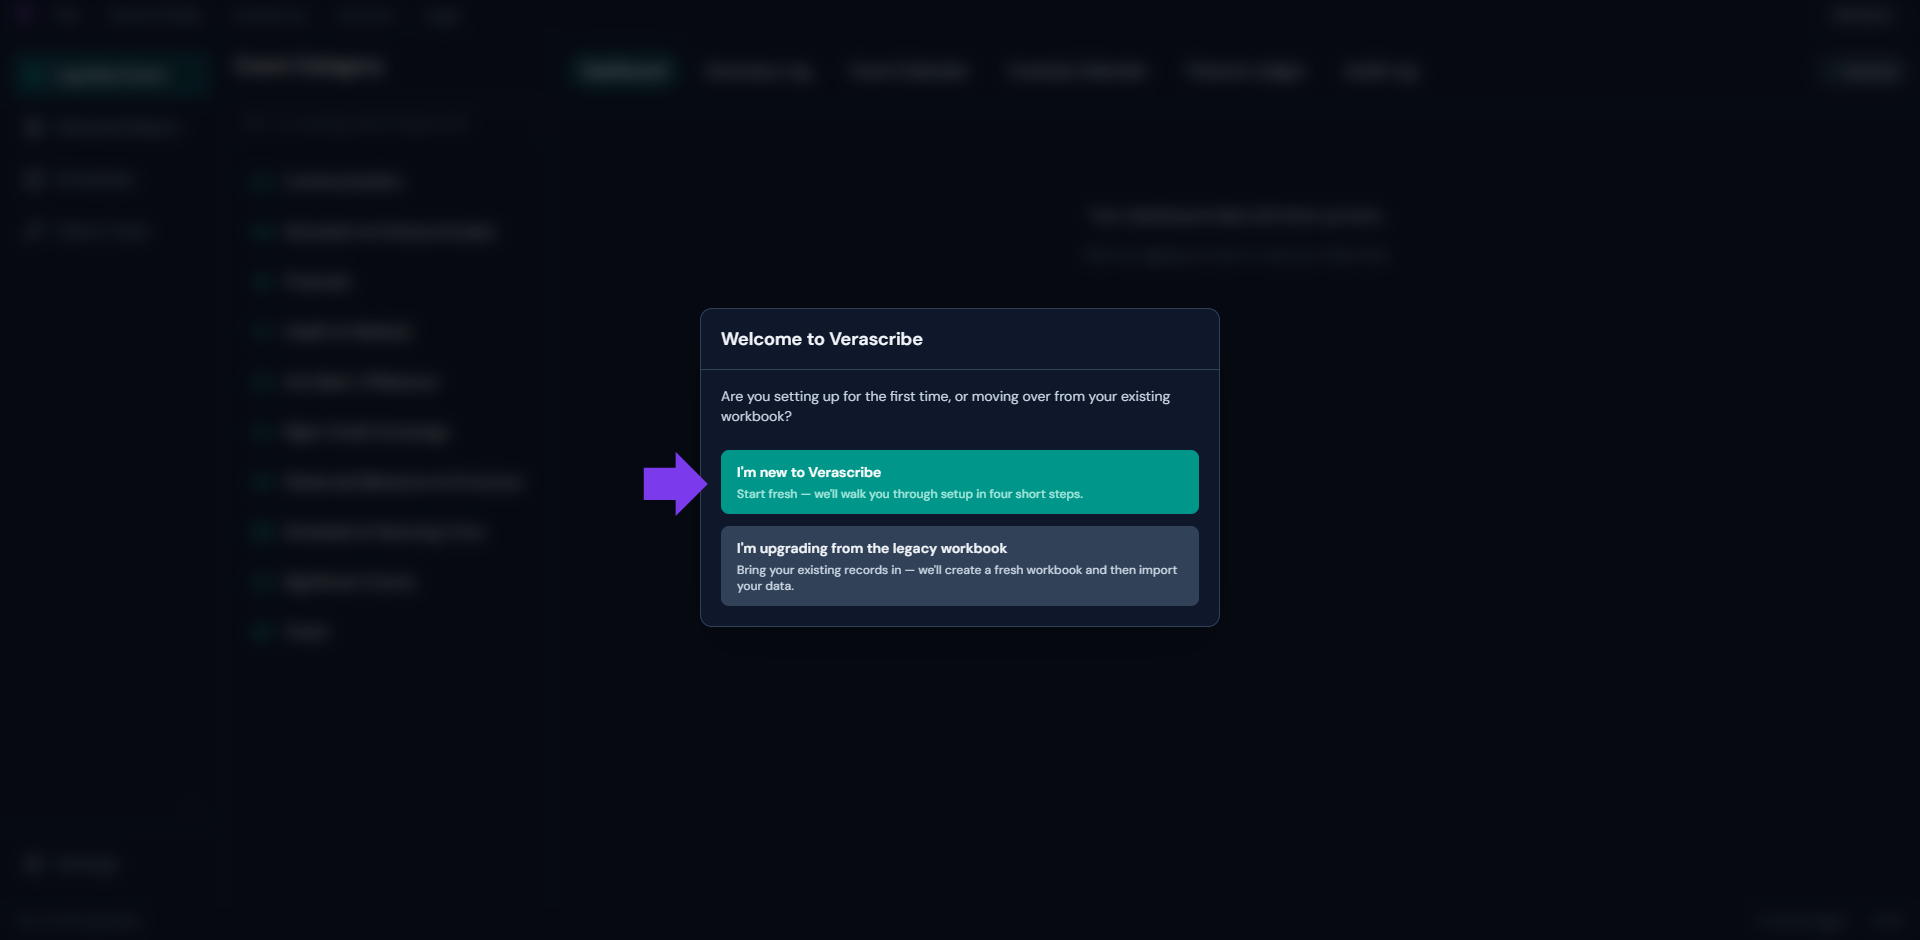
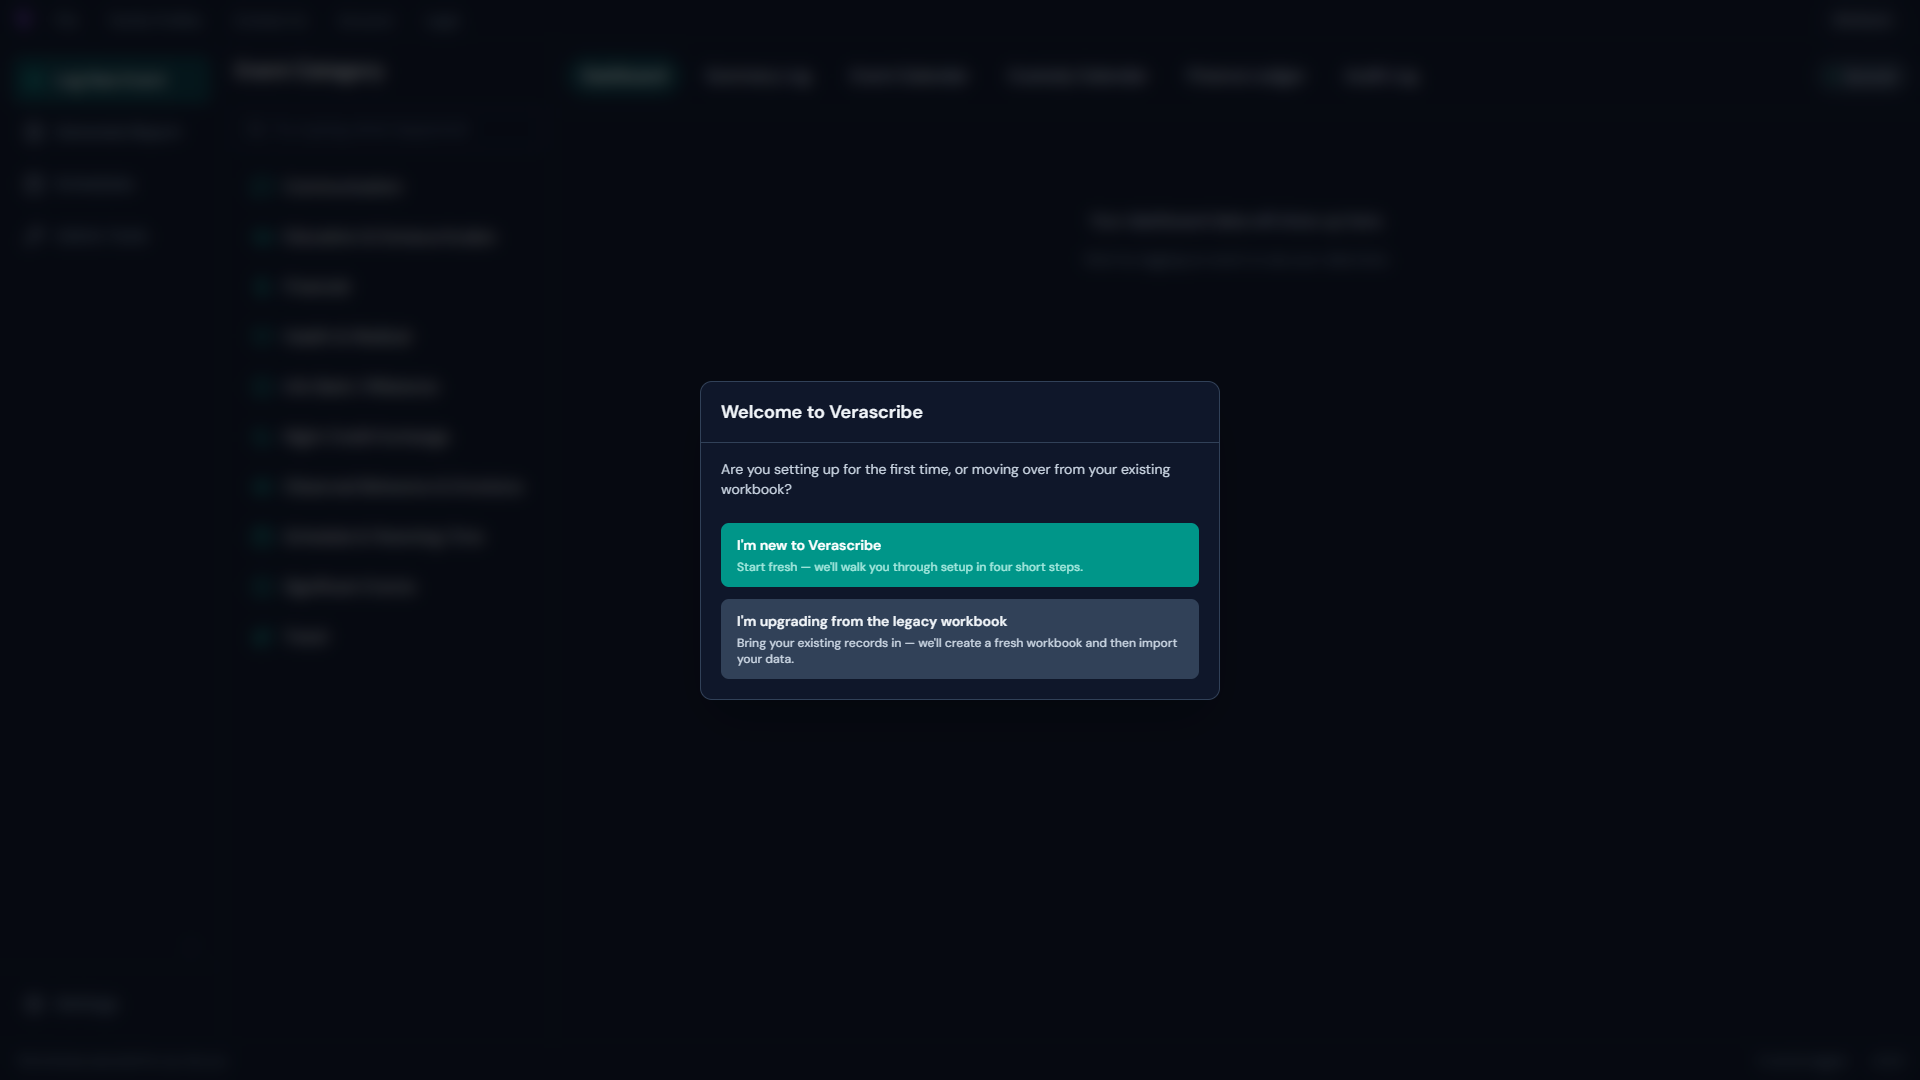
feat: trial page overhaul — vertical steps, real screenshots, card styling, app CTA
- Replace 4-col horizontal step grid with vertical layout (number chip + full-width image)
- Wire all 4 "What to expect" steps to new-user-guide screenshots
- Remove placeholder asset-todo divs; add purple glow to step images matching hero
- Replace hero UI spotlight placeholder with dashboard.png
- Update card containers (full app, permissions, what happens next) to bg-white/5 border-white/10
- Wire modal "Continue to Google" button directly to https://app.myverascribe.com (new tab)
- Update new-user-guide images

Changed region(s): [[0.3125, 0.3085, 0.6562, 0.6787]]

diff --git a/trial/index.html b/trial/index.html
@@ -65,14 +65,7 @@ variant: b
 
     <!-- Hero UI Spotlight asset (below CTA per Axis spec — scroll reward, not above-fold) -->
     <div class="mt-20 max-w-4xl mx-auto">
-      <!-- ASSET TODO: /assets/images/trial/hero.png — 1280x800 (16:10), UI Spotlight, dark app UI in laptop frame, radial Neon Purple glow -->
-      <div class="asset-todo aspect-[16/10] rounded-2xl flex items-center justify-center" style="box-shadow: 0 0 120px -10px rgba(168,85,247,0.4);">
-        <div class="text-center text-brand-purple/60">
-          <i data-lucide="image" class="w-16 h-16 mx-auto mb-3"></i>
-          <p class="text-sm font-semibold uppercase tracking-wider">Hero UI Spotlight</p>
-          <p class="text-xs mt-1 opacity-60">/assets/images/trial/hero.png &middot; 1280&times;800 &middot; UI Spotlight</p>
-        </div>
-      </div>
+      <img src="{{ '/assets/images/index/dashboard.png' | relative_url }}" alt="Verascribe Guardian dashboard" class="w-full rounded-2xl shadow-2xl" style="box-shadow: 0 0 120px -10px rgba(168,85,247,0.4);">
     </div>
   </div>
 </section>
@@ -98,7 +91,7 @@ variant: b
 
     <div class="grid md:grid-cols-2 gap-6 reveal">
       <!-- Card 1: Custody logging -->
-      <div class="glass-card rounded-2xl p-7 border border-slate-700/40">
+      <div class="glass-card rounded-2xl p-7 bg-white/5 border border-white/10">
         <i data-lucide="clipboard-list" class="w-7 h-7 text-brand-teal mb-4"></i>
         <h3 class="text-xl font-bold text-off-white mb-3">Custody logging</h3>
         <p class="text-lg text-gray-400 leading-[1.6]">
@@ -107,7 +100,7 @@ variant: b
       </div>
 
       <!-- Card 2: Custody calendar -->
-      <div class="glass-card rounded-2xl p-7 border border-slate-700/40">
+      <div class="glass-card rounded-2xl p-7 bg-white/5 border border-white/10">
         <i data-lucide="calendar" class="w-7 h-7 text-brand-teal mb-4"></i>
         <h3 class="text-xl font-bold text-off-white mb-3">Custody calendar</h3>
         <p class="text-lg text-gray-400 leading-[1.6]">
@@ -116,7 +109,7 @@ variant: b
       </div>
 
       <!-- Card 3: Finance ledger -->
-      <div class="glass-card rounded-2xl p-7 border border-slate-700/40">
+      <div class="glass-card rounded-2xl p-7 bg-white/5 border border-white/10">
         <i data-lucide="receipt" class="w-7 h-7 text-brand-teal mb-4"></i>
         <h3 class="text-xl font-bold text-off-white mb-3">Finance ledger</h3>
         <p class="text-lg text-gray-400 leading-[1.6]">
@@ -125,7 +118,7 @@ variant: b
       </div>
 
       <!-- Card 4: Evidence locker -->
-      <div class="glass-card rounded-2xl p-7 border border-slate-700/40">
+      <div class="glass-card rounded-2xl p-7 bg-white/5 border border-white/10">
         <i data-lucide="folder-lock" class="w-7 h-7 text-brand-teal mb-4"></i>
         <h3 class="text-xl font-bold text-off-white mb-3">Evidence locker</h3>
         <p class="text-lg text-gray-400 leading-[1.6]">
@@ -134,7 +127,7 @@ variant: b
       </div>
 
       <!-- Card 5: One-click PDF reports -->
-      <div class="glass-card rounded-2xl p-7 border border-slate-700/40">
+      <div class="glass-card rounded-2xl p-7 bg-white/5 border border-white/10">
         <i data-lucide="file-text" class="w-7 h-7 text-brand-teal mb-4"></i>
         <h3 class="text-xl font-bold text-off-white mb-3">One-click PDF reports</h3>
         <p class="text-lg text-gray-400 leading-[1.6]">
@@ -143,7 +136,7 @@ variant: b
       </div>
 
       <!-- Card 6: Full audit trail -->
-      <div class="glass-card rounded-2xl p-7 border border-slate-700/40">
+      <div class="glass-card rounded-2xl p-7 bg-white/5 border border-white/10">
         <i data-lucide="history" class="w-7 h-7 text-brand-teal mb-4"></i>
         <h3 class="text-xl font-bold text-off-white mb-3">Full audit trail</h3>
         <p class="text-lg text-gray-400 leading-[1.6]">
@@ -177,85 +170,65 @@ variant: b
       </p>
     </div>
 
-    <!-- 4-step grid with desktop connector line -->
-    <div class="relative reveal">
-      <!-- Connector line: desktop only, behind the chips -->
-      <div class="hidden lg:block absolute top-12 left-[12%] right-[12%] h-px bg-slate-700/60 -z-0"></div>
+    <!-- 4-step vertical list -->
+    <div class="space-y-16 reveal">
 
-      <div class="grid grid-cols-1 lg:grid-cols-4 gap-10 lg:gap-6 relative z-10">
-
-        <!-- Step 1 -->
-        <div class="text-center">
-          <div class="w-10 h-10 rounded-full bg-brand-purple/15 text-brand-purple font-bold flex items-center justify-center mx-auto mb-4 border-2 border-charcoal">
-            1
-          </div>
-          <!-- ASSET TODO: /assets/images/trial/step-1.png — 1280x960 (4:3), workbook-picker UI screenshot -->
-          <div class="asset-todo aspect-[4/3] rounded-xl mb-5 flex items-center justify-center">
-            <div class="text-center text-brand-purple/50">
-              <i data-lucide="image" class="w-10 h-10 mx-auto mb-2"></i>
-              <p class="text-xs opacity-70">step-1.png</p>
-            </div>
-          </div>
-          <h3 class="text-lg font-bold text-off-white mb-2">Tell us where you are.</h3>
-          <p class="text-base text-gray-400 leading-[1.5]">
+      <!-- Step 1 -->
+      <div class="flex flex-col md:flex-row items-start gap-8">
+        <div class="flex-shrink-0 w-10 h-10 rounded-full bg-brand-purple/15 text-brand-purple font-bold flex items-center justify-center border-2 border-charcoal mt-1">
+          1
+        </div>
+        <div class="flex-1">
+          <h3 class="text-xl font-bold text-off-white mb-3">Tell us where you are.</h3>
+          <p class="text-base text-gray-400 leading-[1.5] mb-6">
             New to Verascribe, or returning to an existing workbook? One tap.
           </p>
-        </div>
-
-        <!-- Step 2 -->
-        <div class="text-center">
-          <div class="w-10 h-10 rounded-full bg-brand-purple/15 text-brand-purple font-bold flex items-center justify-center mx-auto mb-4 border-2 border-charcoal">
-            2
-          </div>
-          <!-- ASSET TODO: /assets/images/trial/step-2.png — 1280x960 (4:3), in-app "Create new workbook" screen -->
-          <div class="asset-todo aspect-[4/3] rounded-xl mb-5 flex items-center justify-center">
-            <div class="text-center text-brand-purple/50">
-              <i data-lucide="image" class="w-10 h-10 mx-auto mb-2"></i>
-              <p class="text-xs opacity-70">step-2.png</p>
-            </div>
-          </div>
-          <h3 class="text-lg font-bold text-off-white mb-2">Create your workbook.</h3>
-          <p class="text-base text-gray-400 leading-[1.5]">
-            Click "Create workbook" in the app. A new Google Sheets workbook is created in your Drive. That workbook is yours &mdash; it stays in your account whether you stay with us or not.
-          </p>
-        </div>
-
-        <!-- Step 3 -->
-        <div class="text-center">
-          <div class="w-10 h-10 rounded-full bg-brand-purple/15 text-brand-purple font-bold flex items-center justify-center mx-auto mb-4 border-2 border-charcoal">
-            3
-          </div>
-          <!-- ASSET TODO: /assets/images/trial/step-3.png — 1280x960 (4:3), family profile entry (DO NOT include birthday — input doesn't exist yet) -->
-          <div class="asset-todo aspect-[4/3] rounded-xl mb-5 flex items-center justify-center">
-            <div class="text-center text-brand-purple/50">
-              <i data-lucide="image" class="w-10 h-10 mx-auto mb-2"></i>
-              <p class="text-xs opacity-70">step-3.png</p>
-            </div>
-          </div>
-          <h3 class="text-lg font-bold text-off-white mb-2">Enter your family profile.</h3>
-          <p class="text-base text-gray-400 leading-[1.5]">
-            Names for your child or children. Names for the parents. The relationships between them. Two minutes.
-          </p>
-        </div>
-
-        <!-- Step 4 -->
-        <div class="text-center">
-          <div class="w-10 h-10 rounded-full bg-brand-purple/15 text-brand-purple font-bold flex items-center justify-center mx-auto mb-4 border-2 border-charcoal">
-            4
-          </div>
-          <!-- ASSET TODO: /assets/images/trial/step-4.png — 1280x960 (4:3), schedule generator screenshot -->
-          <div class="asset-todo aspect-[4/3] rounded-xl mb-5 flex items-center justify-center">
-            <div class="text-center text-brand-purple/50">
-              <i data-lucide="image" class="w-10 h-10 mx-auto mb-2"></i>
-              <p class="text-xs opacity-70">step-4.png</p>
-            </div>
-          </div>
-          <h3 class="text-lg font-bold text-off-white mb-2">Generate your custody schedule.</h3>
-          <p class="text-base text-gray-400 leading-[1.5]">
-            Pick a template (2-2-3, week-on-week-off, every-other-weekend, custom) and the calendar fills in. Adjust as needed.
-          </p>
+          <img src="{{ '/assets/images/guides/new-user-guide/select-new-user.png' | relative_url }}" alt="Select new user" class="w-full rounded-xl" style="box-shadow: 0 0 120px -10px rgba(168,85,247,0.4);">
         </div>
       </div>
+
+      <!-- Step 2 -->
+      <div class="flex flex-col md:flex-row items-start gap-8">
+        <div class="flex-shrink-0 w-10 h-10 rounded-full bg-brand-purple/15 text-brand-purple font-bold flex items-center justify-center border-2 border-charcoal mt-1">
+          2
+        </div>
+        <div class="flex-1">
+          <h3 class="text-xl font-bold text-off-white mb-3">Create your workbook.</h3>
+          <p class="text-base text-gray-400 leading-[1.5] mb-6">
+            Click "Create workbook" in the app. A new Google Sheets workbook is created in your Drive. That workbook is yours &mdash; it stays in your account whether you stay with us or not.
+          </p>
+          <img src="{{ '/assets/images/guides/new-user-guide/create-new-workbook.png' | relative_url }}" alt="Create new workbook" class="w-full rounded-xl" style="box-shadow: 0 0 120px -10px rgba(168,85,247,0.4);">
+        </div>
+      </div>
+
+      <!-- Step 3 -->
+      <div class="flex flex-col md:flex-row items-start gap-8">
+        <div class="flex-shrink-0 w-10 h-10 rounded-full bg-brand-purple/15 text-brand-purple font-bold flex items-center justify-center border-2 border-charcoal mt-1">
+          3
+        </div>
+        <div class="flex-1">
+          <h3 class="text-xl font-bold text-off-white mb-3">Enter your family profile.</h3>
+          <p class="text-base text-gray-400 leading-[1.5] mb-6">
+            Names for your child or children. Names for the parents. The relationships between them. Two minutes.
+          </p>
+          <img src="{{ '/assets/images/guides/new-user-guide/family-profile.png' | relative_url }}" alt="Enter family profile" class="w-full rounded-xl" style="box-shadow: 0 0 120px -10px rgba(168,85,247,0.4);">
+        </div>
+      </div>
+
+      <!-- Step 4 -->
+      <div class="flex flex-col md:flex-row items-start gap-8">
+        <div class="flex-shrink-0 w-10 h-10 rounded-full bg-brand-purple/15 text-brand-purple font-bold flex items-center justify-center border-2 border-charcoal mt-1">
+          4
+        </div>
+        <div class="flex-1">
+          <h3 class="text-xl font-bold text-off-white mb-3">Generate your custody schedule.</h3>
+          <p class="text-base text-gray-400 leading-[1.5] mb-6">
+            Pick a template (2-2-3, week-on-week-off, every-other-weekend, custom) and the calendar fills in. Adjust as needed.
+          </p>
+          <img src="{{ '/assets/images/guides/new-user-guide/generate-schedule.png' | relative_url }}" alt="Generate custody schedule" class="w-full rounded-xl" style="box-shadow: 0 0 120px -10px rgba(168,85,247,0.4);">
+        </div>
+      </div>
+
     </div>
 
     <p class="text-center text-lg text-gray-300 mt-16 reveal">
@@ -287,7 +260,7 @@ variant: b
     <div class="grid md:grid-cols-3 gap-6 reveal mb-12">
 
       <!-- Permission 1: drive.file -->
-      <div class="glass-card rounded-2xl p-7 border border-slate-700/40">
+      <div class="glass-card rounded-2xl p-7 bg-white/5 border border-white/10">
         <i data-lucide="folder-open" class="w-8 h-8 text-brand-teal mb-4"></i>
         <h3 class="text-lg font-bold text-off-white mb-3">See, edit, create, and delete only the specific Google Drive files you use with this app</h3>
         <p class="text-base text-gray-400 leading-[1.6]">
@@ -296,7 +269,7 @@ variant: b
       </div>
 
       <!-- Permission 2: external_request -->
-      <div class="glass-card rounded-2xl p-7 border border-slate-700/40">
+      <div class="glass-card rounded-2xl p-7 bg-white/5 border border-white/10">
         <i data-lucide="globe" class="w-8 h-8 text-brand-teal mb-4"></i>
         <h3 class="text-lg font-bold text-off-white mb-3">Connect to an external service</h3>
         <p class="text-base text-gray-400 leading-[1.6]">
@@ -305,7 +278,7 @@ variant: b
       </div>
 
       <!-- Permission 3: send_mail -->
-      <div class="glass-card rounded-2xl p-7 border border-slate-700/40">
+      <div class="glass-card rounded-2xl p-7 bg-white/5 border border-white/10">
         <i data-lucide="mail" class="w-8 h-8 text-brand-teal mb-4"></i>
         <h3 class="text-lg font-bold text-off-white mb-3">Send email as you</h3>
         <p class="text-base text-gray-400 leading-[1.6]">
@@ -316,7 +289,7 @@ variant: b
     </div>
 
     <!-- Implicit email permission callout -->
-    <div class="glass-card rounded-2xl p-6 border border-slate-700/40 border-l-4 border-l-brand-teal reveal mb-16">
+    <div class="glass-card rounded-2xl p-6 bg-white/5 border border-white/10 border-l-4 border-l-brand-teal reveal mb-16">
       <div class="flex items-start gap-4">
         <i data-lucide="user" class="w-6 h-6 text-brand-teal flex-shrink-0 mt-1"></i>
         <div>
@@ -514,7 +487,7 @@ variant: b
     </p>
 
     <!-- Pull-quote — the page's only DM Serif Display moment -->
-    <div class="glass-card rounded-2xl px-8 py-7 my-12 border border-brand-teal/30 text-center">
+    <div class="glass-card rounded-2xl px-8 py-7 my-12 bg-white/5 border border-white/10 text-center">
       <p class="text-2xl md:text-3xl font-serif-display text-off-white leading-[1.25]">
         One year of full access. Then read-only &mdash; your records stay in your Google account, viewable and exportable.
       </p>
@@ -712,7 +685,9 @@ variant: b
     </ul>
 
     <a
-      href="{{ '/trial/launch/' | relative_url }}"
+      href="https://app.myverascribe.com"
+      target="_blank"
+      rel="noopener noreferrer"
       class="block w-full text-center cursor-pointer bg-brand-purple text-white hover:bg-brand-purple/90 px-8 py-4 rounded-full font-semibold text-lg transition-all transform hover:scale-[1.02] active:scale-95 shadow-xl"
       style="box-shadow: 0 0 40px rgba(168,85,247,0.4);"
     >